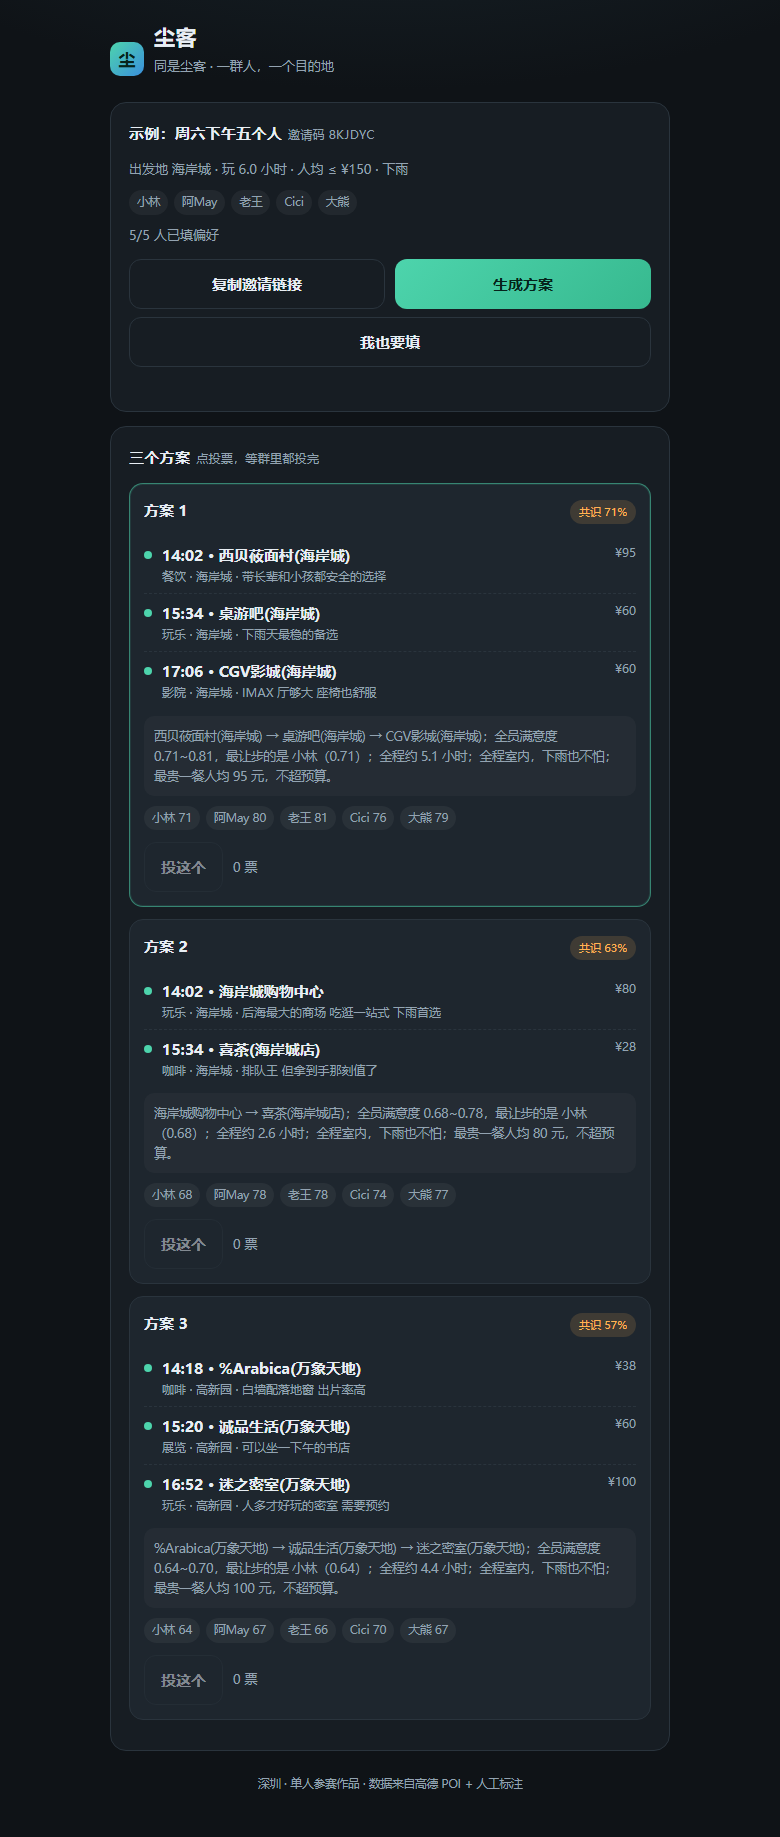
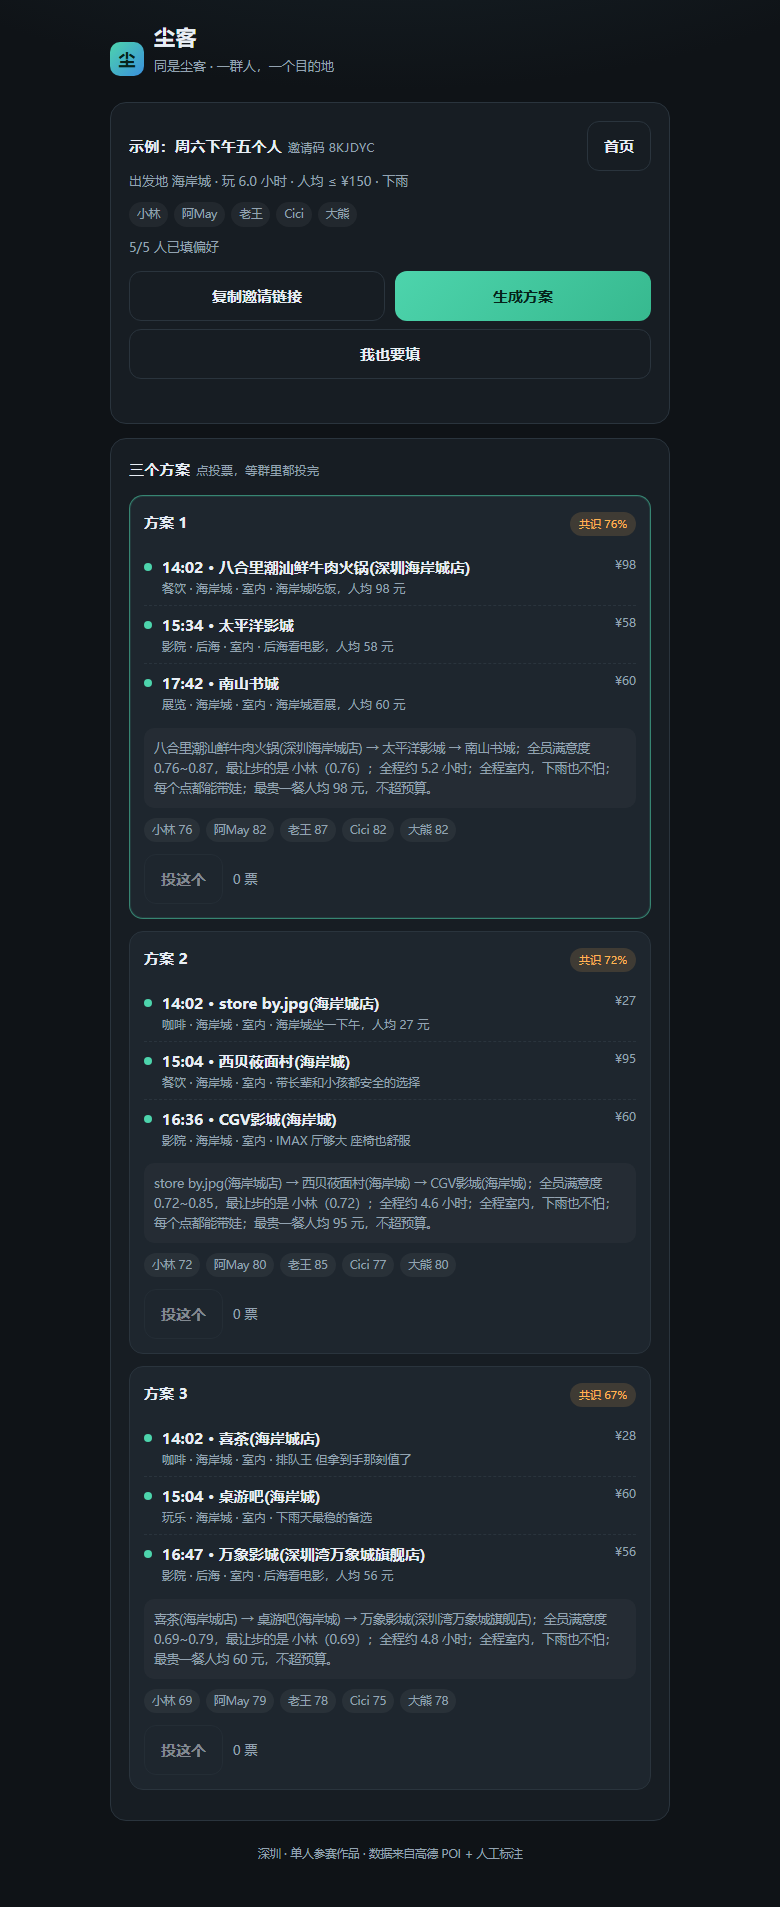
docs: 同步 201 条数据后的截图与说明
- 重拍方案页截图：地点行现在显示「品类 · 商圈 · 室内/室外」，旧图里没有这一栏。
- README：测试 85、地点 201 / 商圈 20 的徽章与正文数字；硬条件补「想待室内 / 想出去走走」；
  已知局限补两条（5 个字段只解析没落库、草稿标注存在人工误差），换城市改成重跑三个脚本。
- DATA.md：规模表、来源两步流程、「还能怎么扩」按现状重写；人工标注字段统一为 9 个。
- 根因是上一次提交把数据从 49 扩到 201，文档里的数字跟不上。

diff --git a/README.md b/README.md
@@ -55,7 +55,7 @@
 ## 二、30 秒看懂它怎么用
 
 1. **建局**：起个名、选出发商圈、选天气（下雨 / 高温）、填人均预算 → 拿到 6 位邀请码。
-2. **各填各的**：三个滑杆（安静↔热闹 / 省钱↔舍得 / 近↔远）+ 硬条件（带娃、开车、忌口）
+2. **各填各的**：三个滑杆（安静↔热闹 / 省钱↔舍得 / 近↔远）+ 硬条件（想待室内 / 想出去走走、带娃、开车、忌口）
    + 一句话（"下雨天别走太远，人均 100 以内"，系统会把它解析成约束）。
 3. **出方案**：点一下，得到 3 个方案，每个是 2~3 个地点连成的动线，带时刻表，例如
    `14:18 %Arabica 咖啡 → 15:20 诚品生活 → 16:52 迷之密室`，
@@ -218,7 +218,7 @@ web/index.html          点「生成方案」
 
 - **结构化字段来自高德开放平台 POI 检索**（名称、坐标、品类、人均、评分），
   属于官方开放接口的正常使用，不爬取、不绕过任何反爬措施。
-- **剩下 8 个字段是人工标注的**：室内/室外、安静度（0~1）、适合人数的上下限、
+- **剩下 9 个字段是人工标注的**：室内/室外、安静度（0~1）、适合人数的上下限、
   是否适合带娃、是否需预约、排队程度（0~1）、标签、一句话推荐理由。
   这部分是评委问"你的数据凭什么比点评好"时的答案：
   点评的标签是给"陌生人"看的，我们标的是"一群人决策需要知道的东西"——
@@ -265,8 +265,8 @@ docker run -p 8000:8000 chenke
 
 ## 九、已知局限
 
-1. **只做了深圳。** 地点表是人工标注的，换个城市需要重新标 2 天。这是刻意的取舍：
-   十个城市各 20 条，不如一个城市 201 条标得准。
+1. **只做了深圳。** 换城市要重跑 `fetch_amap` → `shortlist` → `draft_labels`，再人工复核 2 天；
+   这是刻意的取舍：十个城市各 20 条，不如一个城市 201 条标得准。
 2. **通行时间是指数估算，不是实时路况。** 用球面距离 × 路网系数 + 地铁/驾车差异，
    误差在 20% 左右。接高德路径规划 API 只需替换 `algo/geo.py` 里一个函数，
    但免费配额会被枚举组合瞬间打爆，所以做了本地缓存策略（见 docs/ALGORITHM.md 第 6 节）。
@@ -275,6 +275,13 @@ docker run -p 8000:8000 chenke
 4. **一句话解析是规则版，不是大模型。** 这是刻意的：规则可测、3 毫秒返回、断网可用、
    失败模式是"漏识别"而不是"胡说八道"。接大模型的正确做法是让它输出同样的结构化约束，
    规则版本做兜底，而不是让它直接决定推荐结果。
+5. **解析出来的 16 个字段，只有 11 个真正进了排序。** 品类偏好、时长上限、开始时间、
+   "想拍照 / 想坐着"这 5 个目前只做提示，还没有对应的表字段——这是已知的、有明确修法的欠账，
+   不是设计缺陷的借口。
+6. **201 条里有一半是"脚本先猜、人工复核"出来的。** 名字/坐标/评分/人均来自高德，
+   室内外、安静度、适合人数这些是标出来的，个别地方会有误差（比如把一家日料店判成户外，
+   我们已经在词表里修过一轮）。发现错标在 `data/pois_shenzhen.csv` 里改一行、重跑
+   `python -m scripts.seed` 即可，不需要改代码。
 
 ## 十、许可
 

diff --git a/docs/DATA.md b/docs/DATA.md
@@ -2,7 +2,7 @@
 
 `data/pois_shenzhen.csv` 是这个项目最核心的资产。
 
-算法可以复现，框架可以照抄，但"**另外 8 个字段怎么标**"这件事没法照抄——
+算法可以复现，框架可以照抄，但"**另外 9 个字段怎么标**"这件事没法照抄——
 它决定了推荐结果是不是"真的很懂一群人出去玩"。
 
 ## 1. 规模
@@ -16,7 +16,7 @@
 | 覆盖范围 | 从宝安中心到大鹏、盐田，横跨深圳东西两端 |
 
 **为什么是 201 条而不是 5 000 条**：500 条从大众点评抄来的数据，字段只有"名字 + 评分 + 人均"，
-而这 201 条每一条都有 8 个人工标注字段。**在"一群人决策"这个场景里，后者比前者有用得多。**
+而这 201 条每一条都有 9 个人工标注字段。**在"一群人决策"这个场景里，后者比前者有用得多。**
 
 **这 201 条是怎么来的**（两步，都可以复现）：
 
@@ -102,11 +102,12 @@ python -m scripts.seed --reset
 > 设计意图：**脏数据必须在启动阶段炸掉，而不是上线后算出离谱结果。**
 > 这条也有测试（`test_loader_rejects_unknown_category`）。
 
-## 5. 怎么扩到 300 条（下一步计划）
+## 5. 还能怎么扩（下一步计划）
 
-1. 按商圈补齐到 8~10 个商圈 × 30 个 POI；
-2. 用高德路径规划 API **离线预计算**商圈两两通行时间矩阵（10 商圈 = 100 对，
-   含往返 200 对，一次性消耗约 200 次配额），存 `travel_matrix` 表；
+1. 再补 100 条：目标是每个商圈的**室外点位 ≥ 5**（现在 20 个商圈里 18 个达标，
+   购物公园只有 2 个室外点，大鹏剔掉未开业/在建的点后只剩 9 条里的一部分）；
+2. 用高德路径规划 API **离线预计算**商圈两两通行时间矩阵（20 商圈 = 400 对，
+   含往返 800 对，一次性消耗约 800 次配额），存 `travel_matrix` 表；
 3. 扩量后 `pool_size` 保持 24，组合搜索量不变（`C(24,3)`），只是候选质量更高；
 4. 新增字段前先加测试，再改 loader，最后才改数据——顺序反了会浪费半天。
 
